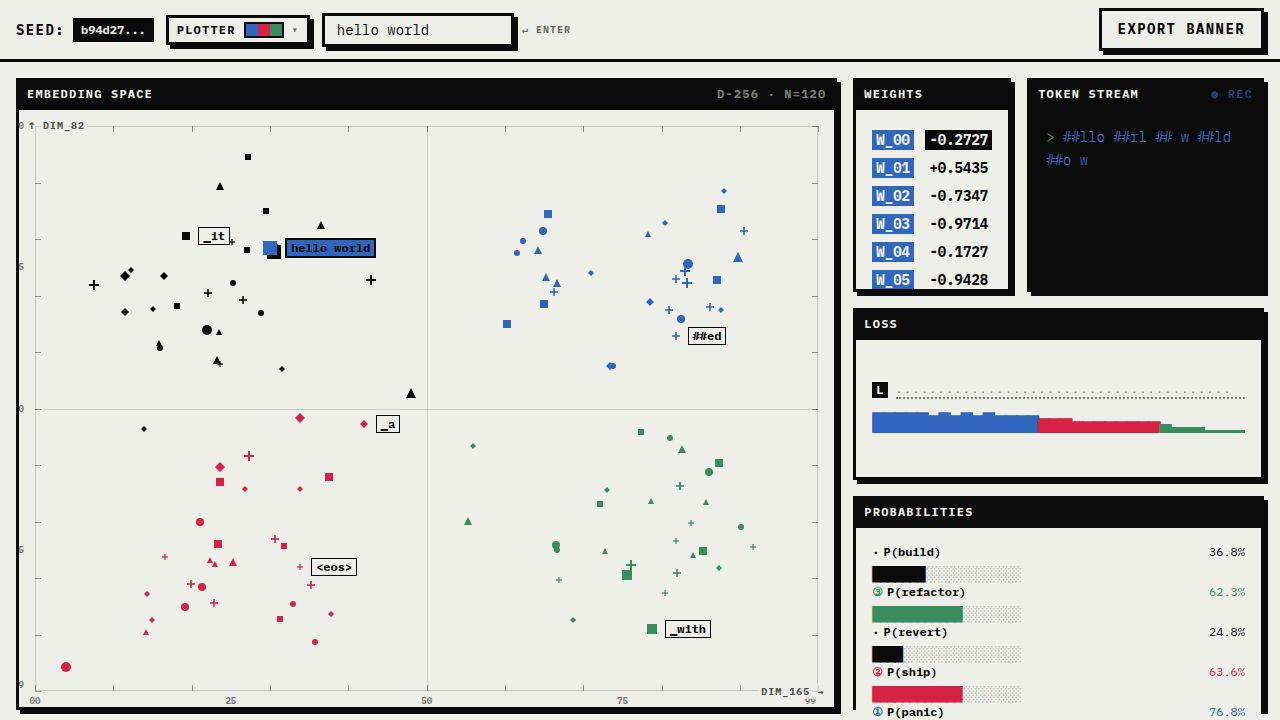
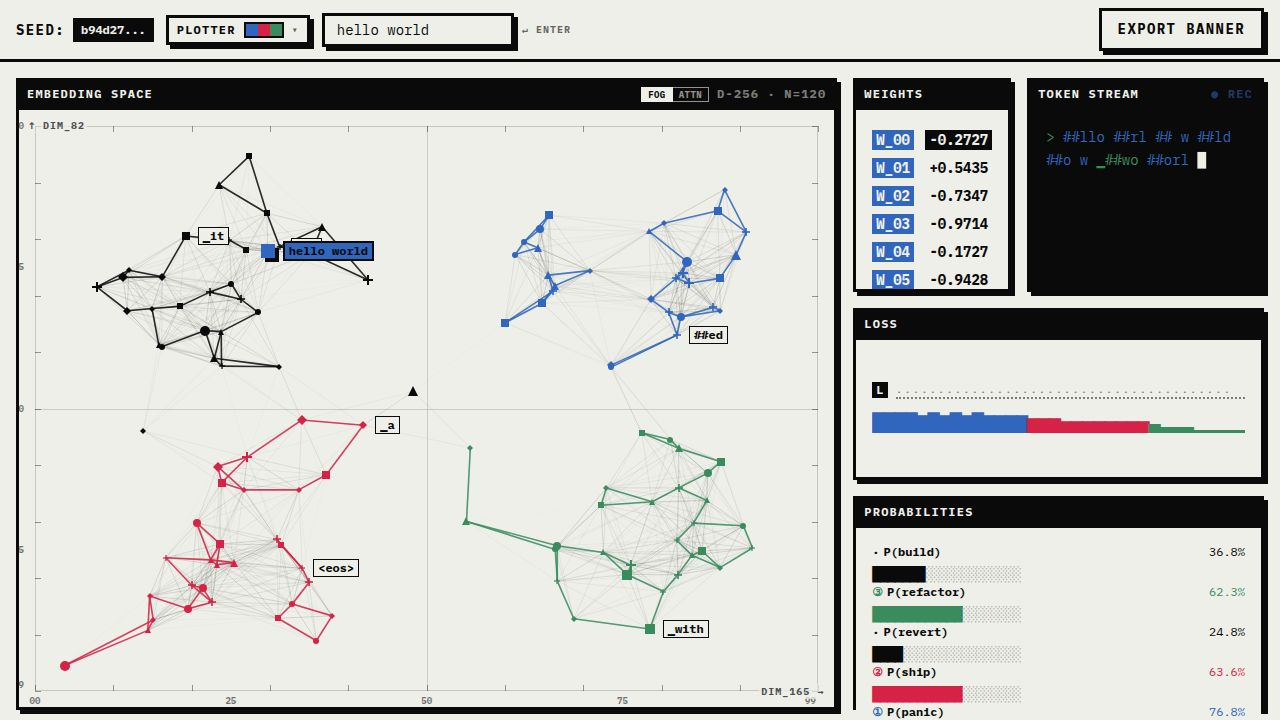
EmbeddingSpace: graduate Fog/Attn connection layer (Task #7)
Replaces the convex-hull cluster shapes in EmbeddingSpace with two
connection-based visualizations selectable from a 2-position toggle in
the panel header.

- FOG: every dot pair within R=0.18 drawn as faint ink strands plus a
  k=2 cluster-colored k-NN web on top.
- ATTN: quiet ink k-NN underlay plus 5 bold accent edges from the "you"
  dot to its top-K nearest others, weighted by softmax(-dist/0.06).
  Attended target dots get accent chips with " · NN%" appended.

Edge math derives only from current dot.x/dot.y so live drift is
preserved and paused/step export rendering stays deterministic per mode.
Hover-NN thick lines now render only in ATTN mode (and not when the
hovered dot is "you", since attention edges already emanate from there).

Removed the convexHull function and hullsByCluster derivation — they
have no remaining callers. Pinned labels, axis labels, trail snap-jumps,
and the accent "you" chip are unchanged.

Files: artifacts/brutalist-ai/src/components/EmbeddingSpace.tsx
Verified: tsc clean, runTest e2e (FOG → ATTN → hover → FOG) passed,
architect evaluate_task pass with no blocking findings.

diff --git a/artifacts/brutalist-ai/src/components/EmbeddingSpace.tsx b/artifacts/brutalist-ai/src/components/EmbeddingSpace.tsx
@@ -13,6 +13,18 @@ const NUM_CLUSTERS = 4;
 const NUM_PINNED = 6;
 const TRAIL_LIFETIME_MS = 900;
 
+// Connection-layer tunables (replaces convex hulls).
+// FOG mode draws every pair within PROX_RADIUS as faint ink strands plus a
+// k-NN layer in cluster colors on top. ATTN mode draws a quiet k-NN ink
+// underlay plus bold accent edges from the "you" dot to its top-K nearest
+// other dots, weighted by a softmax over inverse distance.
+const PROX_RADIUS = 0.18;
+const K_NN = 2;
+const ATTN_TOP_K = 5;
+const ATTN_TEMPERATURE = 0.06;
+
+type ConnectionMode = 'fog' | 'attn';
+
 interface EmbeddingSpaceProps {
   seedData: SeedData;
   palette: Palette;
@@ -67,36 +79,6 @@ interface ClusterMeta {
   dimAxisLabel: string;
 }
 
-/** Andrew's monotone chain — returns convex hull vertices in CCW order. */
-function convexHull(points: { x: number; y: number }[]): { x: number; y: number }[] {
-  if (points.length <= 1) return points.slice();
-  const pts = points.slice().sort((a, b) => (a.x === b.x ? a.y - b.y : a.x - b.x));
-  const cross = (
-    o: { x: number; y: number },
-    a: { x: number; y: number },
-    b: { x: number; y: number },
-  ) => (a.x - o.x) * (b.y - o.y) - (a.y - o.y) * (b.x - o.x);
-
-  const lower: { x: number; y: number }[] = [];
-  for (const p of pts) {
-    while (lower.length >= 2 && cross(lower[lower.length - 2], lower[lower.length - 1], p) <= 0) {
-      lower.pop();
-    }
-    lower.push(p);
-  }
-  const upper: { x: number; y: number }[] = [];
-  for (let i = pts.length - 1; i >= 0; i--) {
-    const p = pts[i];
-    while (upper.length >= 2 && cross(upper[upper.length - 2], upper[upper.length - 1], p) <= 0) {
-      upper.pop();
-    }
-    upper.push(p);
-  }
-  lower.pop();
-  upper.pop();
-  return lower.concat(upper);
-}
-
 function gaussian(prng: SeededPrng): number {
   // Box–Muller (only need one component).
   const u = Math.max(1e-9, prng());
@@ -116,6 +98,7 @@ export function EmbeddingSpace({
   const [hoveredDotId, setHoveredDotId] = useState<number | null>(null);
   const [nearestNeighbors, setNearestNeighbors] = useState<number[]>([]);
   const [clusters, setClusters] = useState<ClusterMeta[]>([]);
+  const [mode, setMode] = useState<ConnectionMode>('fog');
   const [, forceTick] = useState(0); // re-render trails over time even if dots don't change
 
   const mouseRef = useRef({ x: -1000, y: -1000, active: false });
@@ -399,19 +382,139 @@ export function EmbeddingSpace({
     return palette.accent3;
   };
 
-  // Pre-compute hulls per cluster.
-  const hullsByCluster = clusters.map((_, ci) => {
-    const points = dots.filter(d => d.cluster === ci).map(d => ({ x: d.x, y: d.y }));
-    return convexHull(points);
-  });
+  // Compute the connection layer fresh each render so edges follow the live
+  // drift physics. With NUM_DOTS=120 the all-pairs proximity scan is ~7,140
+  // distance computations, and k-NN per dot is ~120*119 sort entries — both
+  // comfortably under a 16ms frame budget. Everything derives from current
+  // dot.x/dot.y (no time-based randomness), so paused/export stepping stays
+  // byte-identical for a given mode.
+  type ProxEdge = { x1: number; y1: number; x2: number; y2: number; dist: number };
+  type KnnEdge = { x1: number; y1: number; x2: number; y2: number; cluster: number };
+  type AttnEdge = { x1: number; y1: number; x2: number; y2: number; weight: number; targetId: number };
+
+  const proxEdges: ProxEdge[] = [];
+  const knnEdges: KnnEdge[] = [];
+  const attnEdges: AttnEdge[] = [];
+
+  if (dots.length > 0) {
+    if (mode === 'fog') {
+      for (let i = 0; i < dots.length; i++) {
+        const di = dots[i];
+        for (let j = i + 1; j < dots.length; j++) {
+          const dj = dots[j];
+          const dx = dj.x - di.x;
+          const dy = dj.y - di.y;
+          const d = Math.sqrt(dx * dx + dy * dy);
+          if (d <= PROX_RADIUS) {
+            proxEdges.push({ x1: di.x, y1: di.y, x2: dj.x, y2: dj.y, dist: d });
+          }
+        }
+      }
+    }
+
+    // k-NN — undirected, deduped. In FOG mode we keep only same-cluster edges
+    // (the colored web mirrors the canvas mockup); in ATTN mode we keep all
+    // k-NN as a quiet ink underlay so the eye still reads the topology.
+    const seen = new Set<number>();
+    for (let i = 0; i < dots.length; i++) {
+      const di = dots[i];
+      const cands: { idx: number; dist: number }[] = [];
+      for (let j = 0; j < dots.length; j++) {
+        if (j === i) continue;
+        const dj = dots[j];
+        const dx = dj.x - di.x;
+        const dy = dj.y - di.y;
+        cands.push({ idx: j, dist: Math.sqrt(dx * dx + dy * dy) });
+      }
+      cands.sort((a, b) => a.dist - b.dist);
+      for (let k = 0; k < Math.min(K_NN, cands.length); k++) {
+        const n = cands[k];
+        const a = i < n.idx ? i : n.idx;
+        const b = i < n.idx ? n.idx : i;
+        const key = a * NUM_DOTS + b;
+        if (seen.has(key)) continue;
+        seen.add(key);
+        const dn = dots[n.idx];
+        if (mode === 'fog' && di.cluster !== dn.cluster) continue;
+        knnEdges.push({ x1: di.x, y1: di.y, x2: dn.x, y2: dn.y, cluster: di.cluster });
+      }
+    }
+
+    if (mode === 'attn') {
+      const you = dots.find(d => d.isYou);
+      if (you) {
+        const others = dots
+          .filter(d => !d.isYou)
+          .map(d => {
+            const dx = d.x - you.x;
+            const dy = d.y - you.y;
+            return { id: d.id, x: d.x, y: d.y, dist: Math.sqrt(dx * dx + dy * dy) };
+          })
+          .sort((a, b) => a.dist - b.dist)
+          .slice(0, ATTN_TOP_K);
+        const scores = others.map(o => Math.exp(-o.dist / ATTN_TEMPERATURE));
+        const sum = scores.reduce((a, b) => a + b, 0) || 1;
+        others.forEach((o, i) => {
+          attnEdges.push({
+            x1: you.x,
+            y1: you.y,
+            x2: o.x,
+            y2: o.y,
+            weight: scores[i] / sum,
+            targetId: o.id,
+          });
+        });
+      }
+    }
+  }
+
+  const attnWeightById = new Map<number, number>();
+  for (const e of attnEdges) attnWeightById.set(e.targetId, e.weight);
 
   const now = performance.now();
 
   return (
     <div className="brutalist-panel w-full h-full flex flex-col overflow-hidden">
-      <div className="brutalist-label z-10 w-full shrink-0 flex justify-between">
+      <div className="brutalist-label z-10 w-full shrink-0 flex justify-between items-center gap-2">
         <span>EMBEDDING SPACE</span>
-        <span style={{ color: palette.bg, opacity: 0.5 }}>D-256 · N={NUM_DOTS}</span>
+        <div className="flex items-center gap-2">
+          <div className="flex" role="group" aria-label="Connection mode">
+            <button
+              type="button"
+              onClick={() => setMode('fog')}
+              className="font-mono font-bold uppercase tracking-wider px-1.5 leading-none cursor-pointer"
+              style={{
+                fontSize: 9,
+                paddingTop: 2,
+                paddingBottom: 2,
+                background: mode === 'fog' ? palette.bg : 'transparent',
+                color: mode === 'fog' ? palette.ink : palette.bg,
+                border: `1px solid ${palette.bg}`,
+                opacity: mode === 'fog' ? 1 : 0.6,
+              }}
+              aria-pressed={mode === 'fog'}
+              aria-label="Proximity fog + k-NN"
+            >FOG</button>
+            <button
+              type="button"
+              onClick={() => setMode('attn')}
+              className="font-mono font-bold uppercase tracking-wider px-1.5 leading-none cursor-pointer"
+              style={{
+                fontSize: 9,
+                paddingTop: 2,
+                paddingBottom: 2,
+                background: mode === 'attn' ? palette.bg : 'transparent',
+                color: mode === 'attn' ? palette.ink : palette.bg,
+                border: `1px solid ${palette.bg}`,
+                borderLeft: 'none',
+                opacity: mode === 'attn' ? 1 : 0.6,
+              }}
+              aria-pressed={mode === 'attn'}
+              aria-label="Attention from you to top-k"
+            >ATTN</button>
+          </div>
+          <span style={{ color: palette.bg, opacity: 0.5 }}>D-256 · N={NUM_DOTS}</span>
+        </div>
       </div>
 
       <div
@@ -516,29 +619,62 @@ export function EmbeddingSpace({
           </>
         )}
 
-        {/* Hulls render in their own SVG with viewBox so the <polygon> `points`
-            attribute can use plain numbers (% units are not allowed there). */}
-        <svg
-          className="absolute inset-0 w-full h-full pointer-events-none z-10"
-          viewBox="0 0 100 100"
-          preserveAspectRatio="none"
-        >
-          {hullsByCluster.map((hull, ci) => {
-            if (hull.length < 3) return null;
-            const points = hull.map(p => `${p.x * 100},${p.y * 100}`).join(' ');
-            const color = colorForCluster(ci);
+        {/* Connection layer (replaces cluster hulls). FOG mode: faint
+            proximity strands underneath sharper colored k-NN. ATTN mode:
+            quiet ink k-NN underlay underneath bold accent attention edges
+            from the "you" dot. Endpoints recompute every render from
+            current dot.x/dot.y so edges follow live drift. */}
+        <svg className="absolute inset-0 w-full h-full pointer-events-none z-10 overflow-visible">
+          {mode === 'fog' && proxEdges.map((e, i) => {
+            const op = (1 - e.dist / PROX_RADIUS) * 0.32;
             return (
-              <polygon
-                key={`hull-${ci}`}
-                points={points}
-                fill={color}
-                fillOpacity={0.07}
-                stroke={color}
-                strokeOpacity={0.45}
-                strokeWidth={0.4}
-                strokeDasharray="1 0.7"
-                vectorEffect="non-scaling-stroke"
+              <line
+                key={`prox-${i}`}
+                x1={`${e.x1 * 100}%`}
+                y1={`${e.y1 * 100}%`}
+                x2={`${e.x2 * 100}%`}
+                y2={`${e.y2 * 100}%`}
+                stroke={palette.ink}
+                strokeOpacity={op}
+                strokeWidth={0.6}
               />
+            );
+          })}
+          {knnEdges.map((e, i) => (
+            <line
+              key={`knn-${i}`}
+              x1={`${e.x1 * 100}%`}
+              y1={`${e.y1 * 100}%`}
+              x2={`${e.x2 * 100}%`}
+              y2={`${e.y2 * 100}%`}
+              stroke={mode === 'fog' ? colorForCluster(e.cluster) : palette.ink}
+              strokeOpacity={mode === 'fog' ? 0.85 : 0.18}
+              strokeWidth={mode === 'fog' ? 1.6 : 0.8}
+            />
+          ))}
+          {mode === 'attn' && attnEdges.map((e, i) => {
+            const w = 1 + e.weight * 7;
+            return (
+              <g key={`attn-${i}`}>
+                <line
+                  x1={`${e.x1 * 100}%`}
+                  y1={`${e.y1 * 100}%`}
+                  x2={`${e.x2 * 100}%`}
+                  y2={`${e.y2 * 100}%`}
+                  stroke={palette.ink}
+                  strokeOpacity={1}
+                  strokeWidth={w + 2}
+                />
+                <line
+                  x1={`${e.x1 * 100}%`}
+                  y1={`${e.y1 * 100}%`}
+                  x2={`${e.x2 * 100}%`}
+                  y2={`${e.y2 * 100}%`}
+                  stroke={accent}
+                  strokeOpacity={0.85 + e.weight * 0.15}
+                  strokeWidth={w}
+                />
+              </g>
             );
           })}
         </svg>
@@ -568,8 +704,10 @@ export function EmbeddingSpace({
             );
           })}
 
-          {/* Nearest-neighbor lines on hover */}
-          {hoveredDotId !== null &&
+          {/* Nearest-neighbor lines on hover. Suppressed in FOG mode (k-NN
+              already shown for every dot) and when hovering "you" in ATTN
+              mode (attention edges already emanate from there). */}
+          {mode === 'attn' && hoveredDotId !== null && hoveredDotId !== 0 &&
             nearestNeighbors.map(nId => {
               const hDot = dots.find(d => d.id === hoveredDotId);
               const nDot = dots.find(d => d.id === nId);
@@ -592,8 +730,14 @@ export function EmbeddingSpace({
         {dots.map(dot => {
           const isHovered = hoveredDotId === dot.id;
           const isNeighbor = nearestNeighbors.includes(dot.id);
+          const attnWeight = attnWeightById.get(dot.id);
+          const isAttended = attnWeight !== undefined;
           const dotColor = dot.isYou ? accent : colorForCluster(dot.cluster);
-          const showLabel = dot.pinned || isHovered || isNeighbor;
+          const showLabel = dot.pinned || isHovered || isNeighbor || isAttended;
+          // Attended target chips share styling with the "you" chip (accent
+          // background, ink border) so the attention relationship reads at a
+          // glance. Pinned + attended combines into one chip with `· NN%`.
+          const useAccentChip = dot.isYou || isAttended;
 
           return (
             <div
@@ -603,7 +747,7 @@ export function EmbeddingSpace({
                 left: `${dot.x * 100}%`,
                 top: `${dot.y * 100}%`,
                 transform: 'translate(-50%, -50%)',
-                zIndex: dot.isYou ? 30 : isHovered ? 40 : isNeighbor ? 25 : dot.pinned ? 20 : 10,
+                zIndex: dot.isYou ? 30 : isHovered ? 40 : isAttended ? 28 : isNeighbor ? 25 : dot.pinned ? 20 : 10,
               }}
               onMouseEnter={() => setHoveredDotId(dot.id)}
               onMouseLeave={() => setHoveredDotId(prev => (prev === dot.id ? null : prev))}
@@ -620,14 +764,14 @@ export function EmbeddingSpace({
                 <div
                   className="absolute left-full top-1/2 -translate-y-1/2 ml-2 whitespace-nowrap px-1 select-none font-mono text-xs font-bold"
                   style={{
-                    backgroundColor: dot.isYou ? accent : isHovered || isNeighbor ? palette.ink : palette.bg,
-                    color: dot.isYou ? palette.ink : isHovered || isNeighbor ? palette.bg : palette.ink,
-                    transform: isHovered || isNeighbor ? 'scale(1.15)' : 'scale(1)',
+                    backgroundColor: useAccentChip ? accent : isHovered || isNeighbor ? palette.ink : palette.bg,
+                    color: useAccentChip ? palette.ink : isHovered || isNeighbor ? palette.bg : palette.ink,
+                    transform: isHovered || isNeighbor || isAttended ? 'scale(1.15)' : 'scale(1)',
                     transformOrigin: 'left center',
-                    border: dot.isYou ? `2px solid ${palette.ink}` : dot.pinned ? `1px solid ${palette.ink}` : 'none',
+                    border: useAccentChip ? `2px solid ${palette.ink}` : dot.pinned ? `1px solid ${palette.ink}` : 'none',
                   }}
                 >
-                  {dot.label}
+                  {dot.label}{isAttended ? ` · ${(attnWeight! * 100).toFixed(0)}%` : ''}
                 </div>
               )}
             </div>